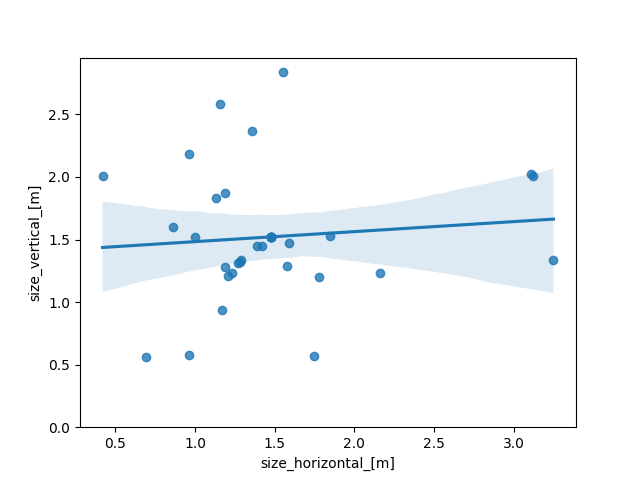
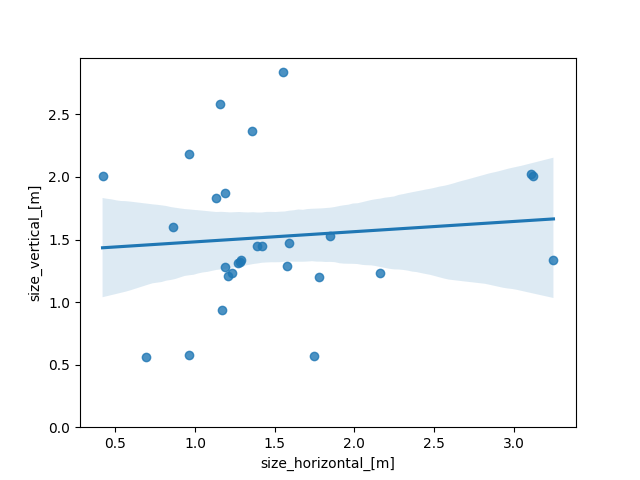
update corrected cleaning

diff --git a/DS/data_import_csv.py b/DS/data_import_csv.py
@@ -21,9 +21,17 @@ df.drop(columns=columns_to_drop, inplace=True)
 #df.drop(columns=columns_to_drop2, inplace=True)
 
 # Replace NaN with Mean
+#df.replace(0, np.nan, inplace=True)
+#mean_values = df[["size_horizontal_[m]", "size_vertical_[m]", "frame_depth_[cm]"]].mean()
+#df.fillna(mean_values, inplace=True)
+
+# Replace NaN with -1
+#df.replace(0, np.nan, inplace=True)
+#df.fillna(-1, inplace=True)
+
+# Dropping Rows with Missing Values
 df.replace(0, np.nan, inplace=True)
-mean_values = df[["size_horizontal_[m]", "size_vertical_[m]", "frame_depth_[cm]"]].mean()
-df.fillna(mean_values, inplace=True)
+df.dropna(inplace=True)
 
 #One-Hot-Encoding
 #df_encoded = pd.get_dummies(df, columns=["frame_colour", "frame_surface", "frame_material"], drop_first=True)

diff --git a/DS/eda/eda.py b/DS/eda/eda.py
@@ -3,7 +3,7 @@ import pandas as pd
 
 
 #Read Data
-df = pd.read_csv("cleaned_data.csv")
+df = pd.read_csv("../cleaned_data.csv")
 
 #Histogram size_horizontal
 plt.hist(df['size_horizontal_[m]'], bins=10, color='skyblue', edgecolor='black')
